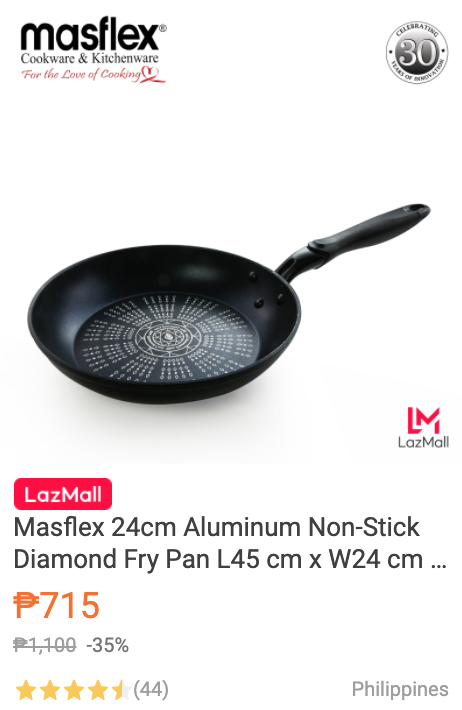
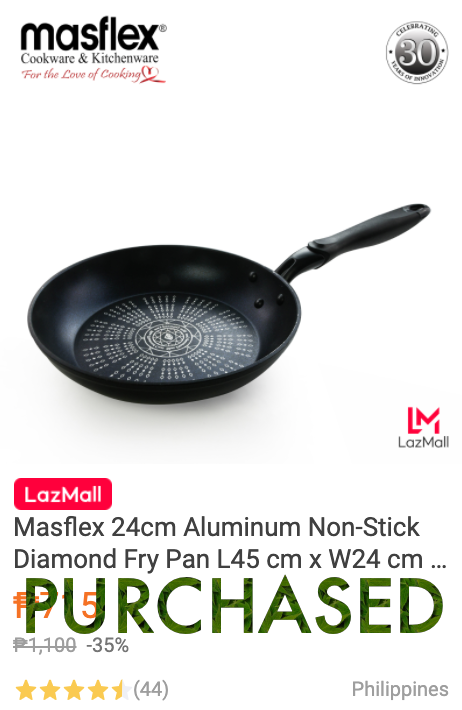
purchased pan 24

Changed region(s): [[0.0303, 0.8056, 0.9697, 0.8986]]

diff --git a/gift-registry.html b/gift-registry.html
@@ -110,7 +110,8 @@
             <img src="/img/gift/ws-pan28-masflex.png" width="460" height="700" alt="" class="gift__img responsive-img">
           </a>
         </div>
-        <div class="col s12 m3 gift">
+        <div class="col s12 m3 gift" style="position: relative">
+          <div class="gift--purchased"></div>
           <a href="https://www.lazada.com.ph/products/masflex-24cm-aluminum-non-stick-diamond-fry-pan-l45-cm-x-w24-cm-x-h102-cm-induction-ready-suitable-for-all-stovetops-healthy-quality-cookware-i330532331-s718188237.html?spm=a2o4l.seller.list.62.7e6d2eb9yPava5&mp=1"
             target="_blank">
             <img src="/img/gift/ws-p24-masflex.png" width="460" height="700" alt="" class="gift__img responsive-img">

diff --git a/css/main.css b/css/main.css
@@ -40,6 +40,16 @@ h4 {
   overflow: hidden;
 }
 
+.gift--purchased {
+  background: rgba(27, 49, 63, 0.3);
+  position: absolute;
+  top: 0;
+  left: 0;
+  width: 100%;
+  height: 100%;
+  overflow: hidden;
+}
+
 blockquote {
   border-left: 5px solid #1b313f;
   }
